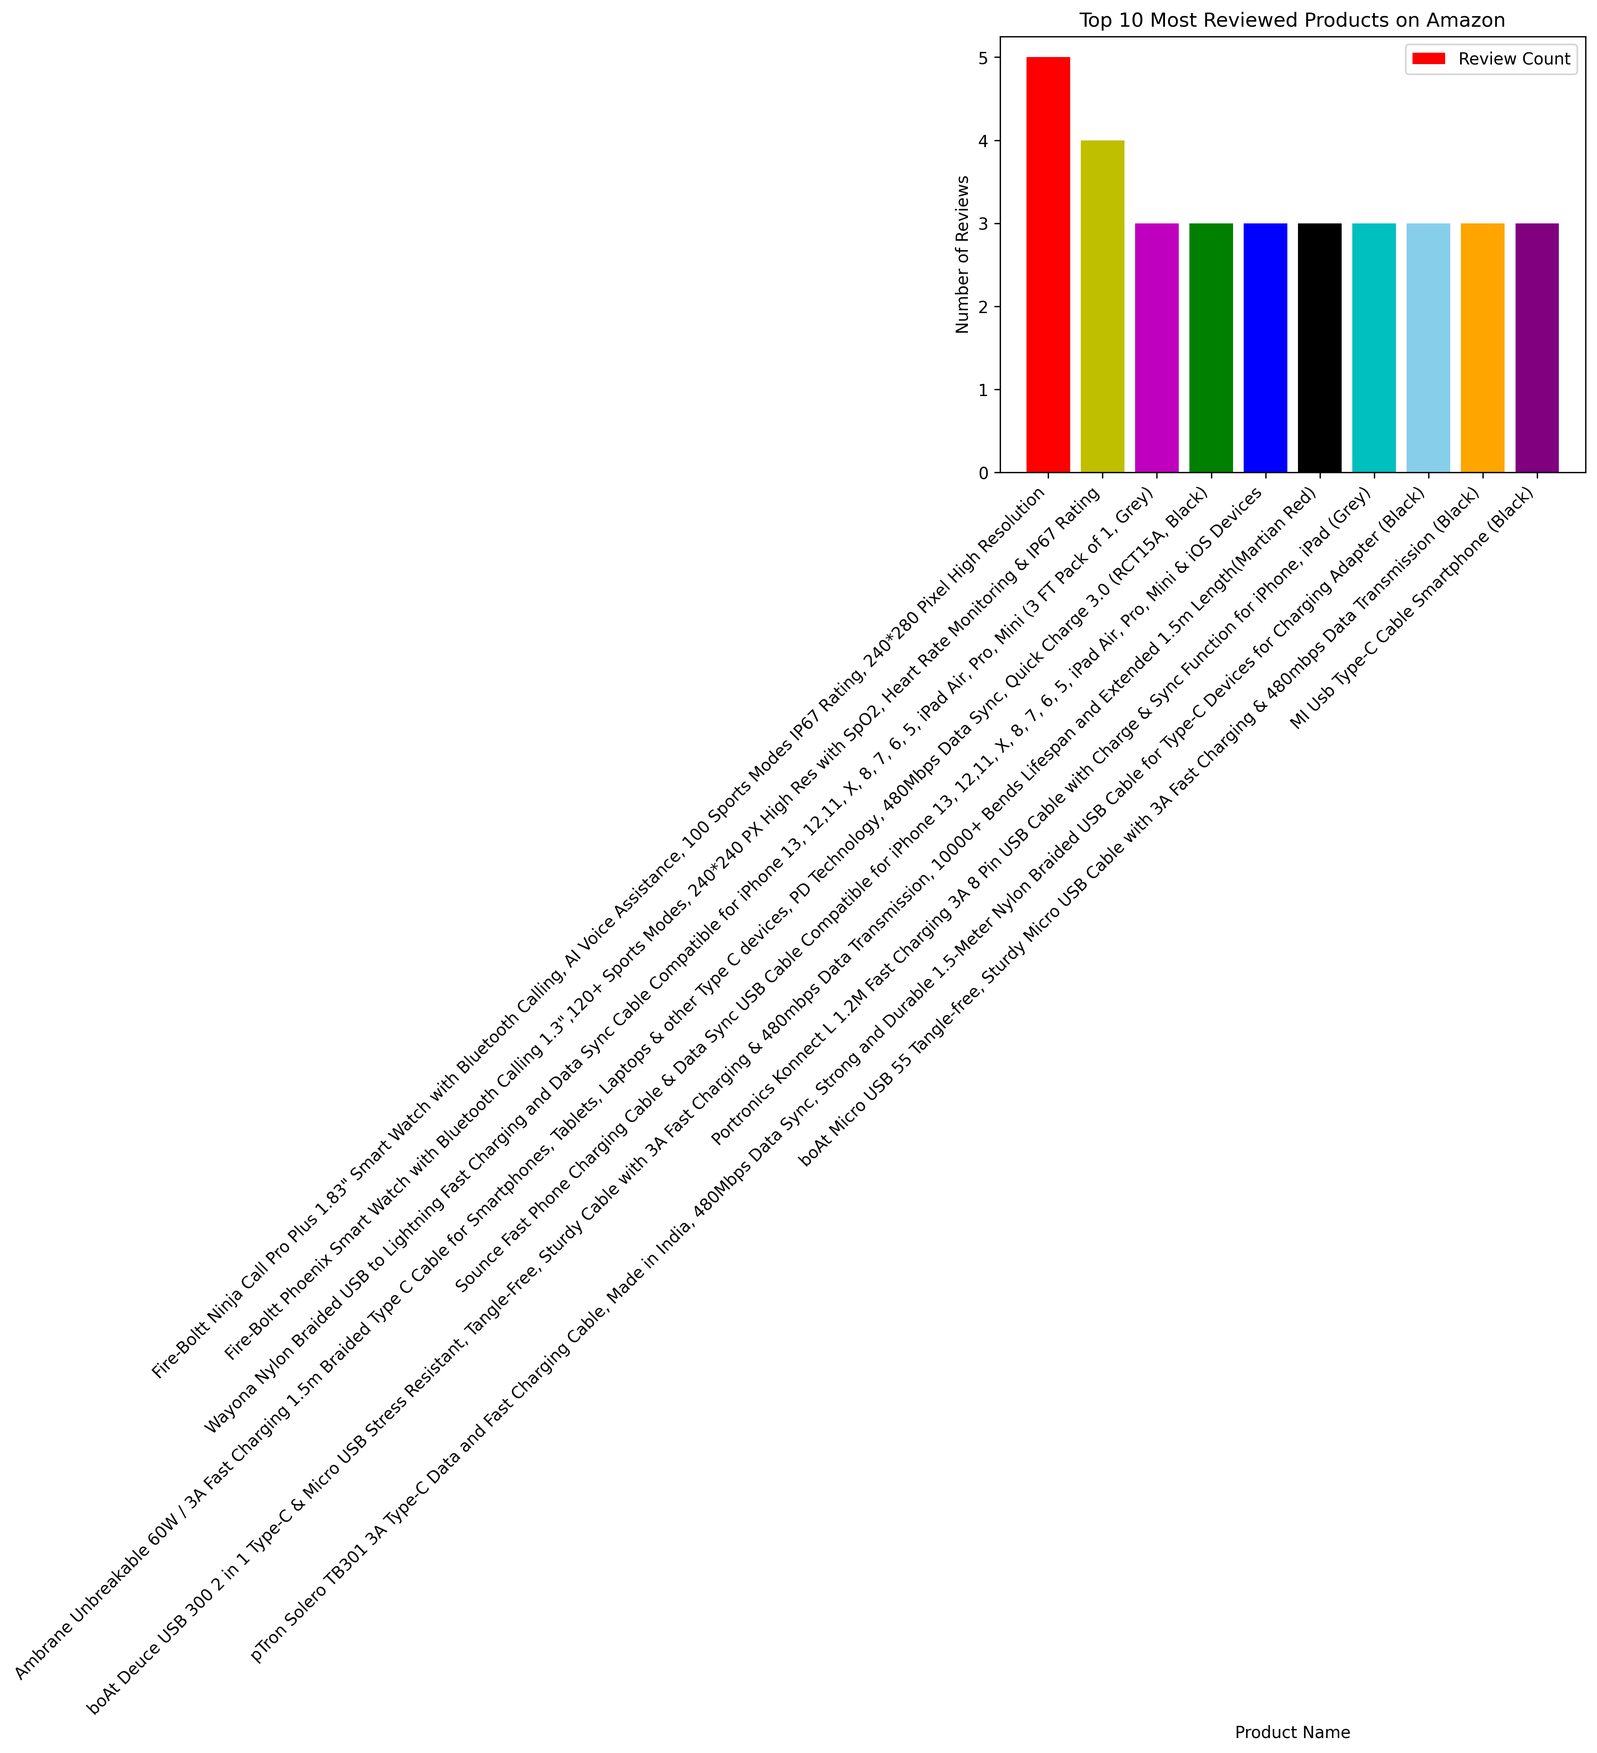
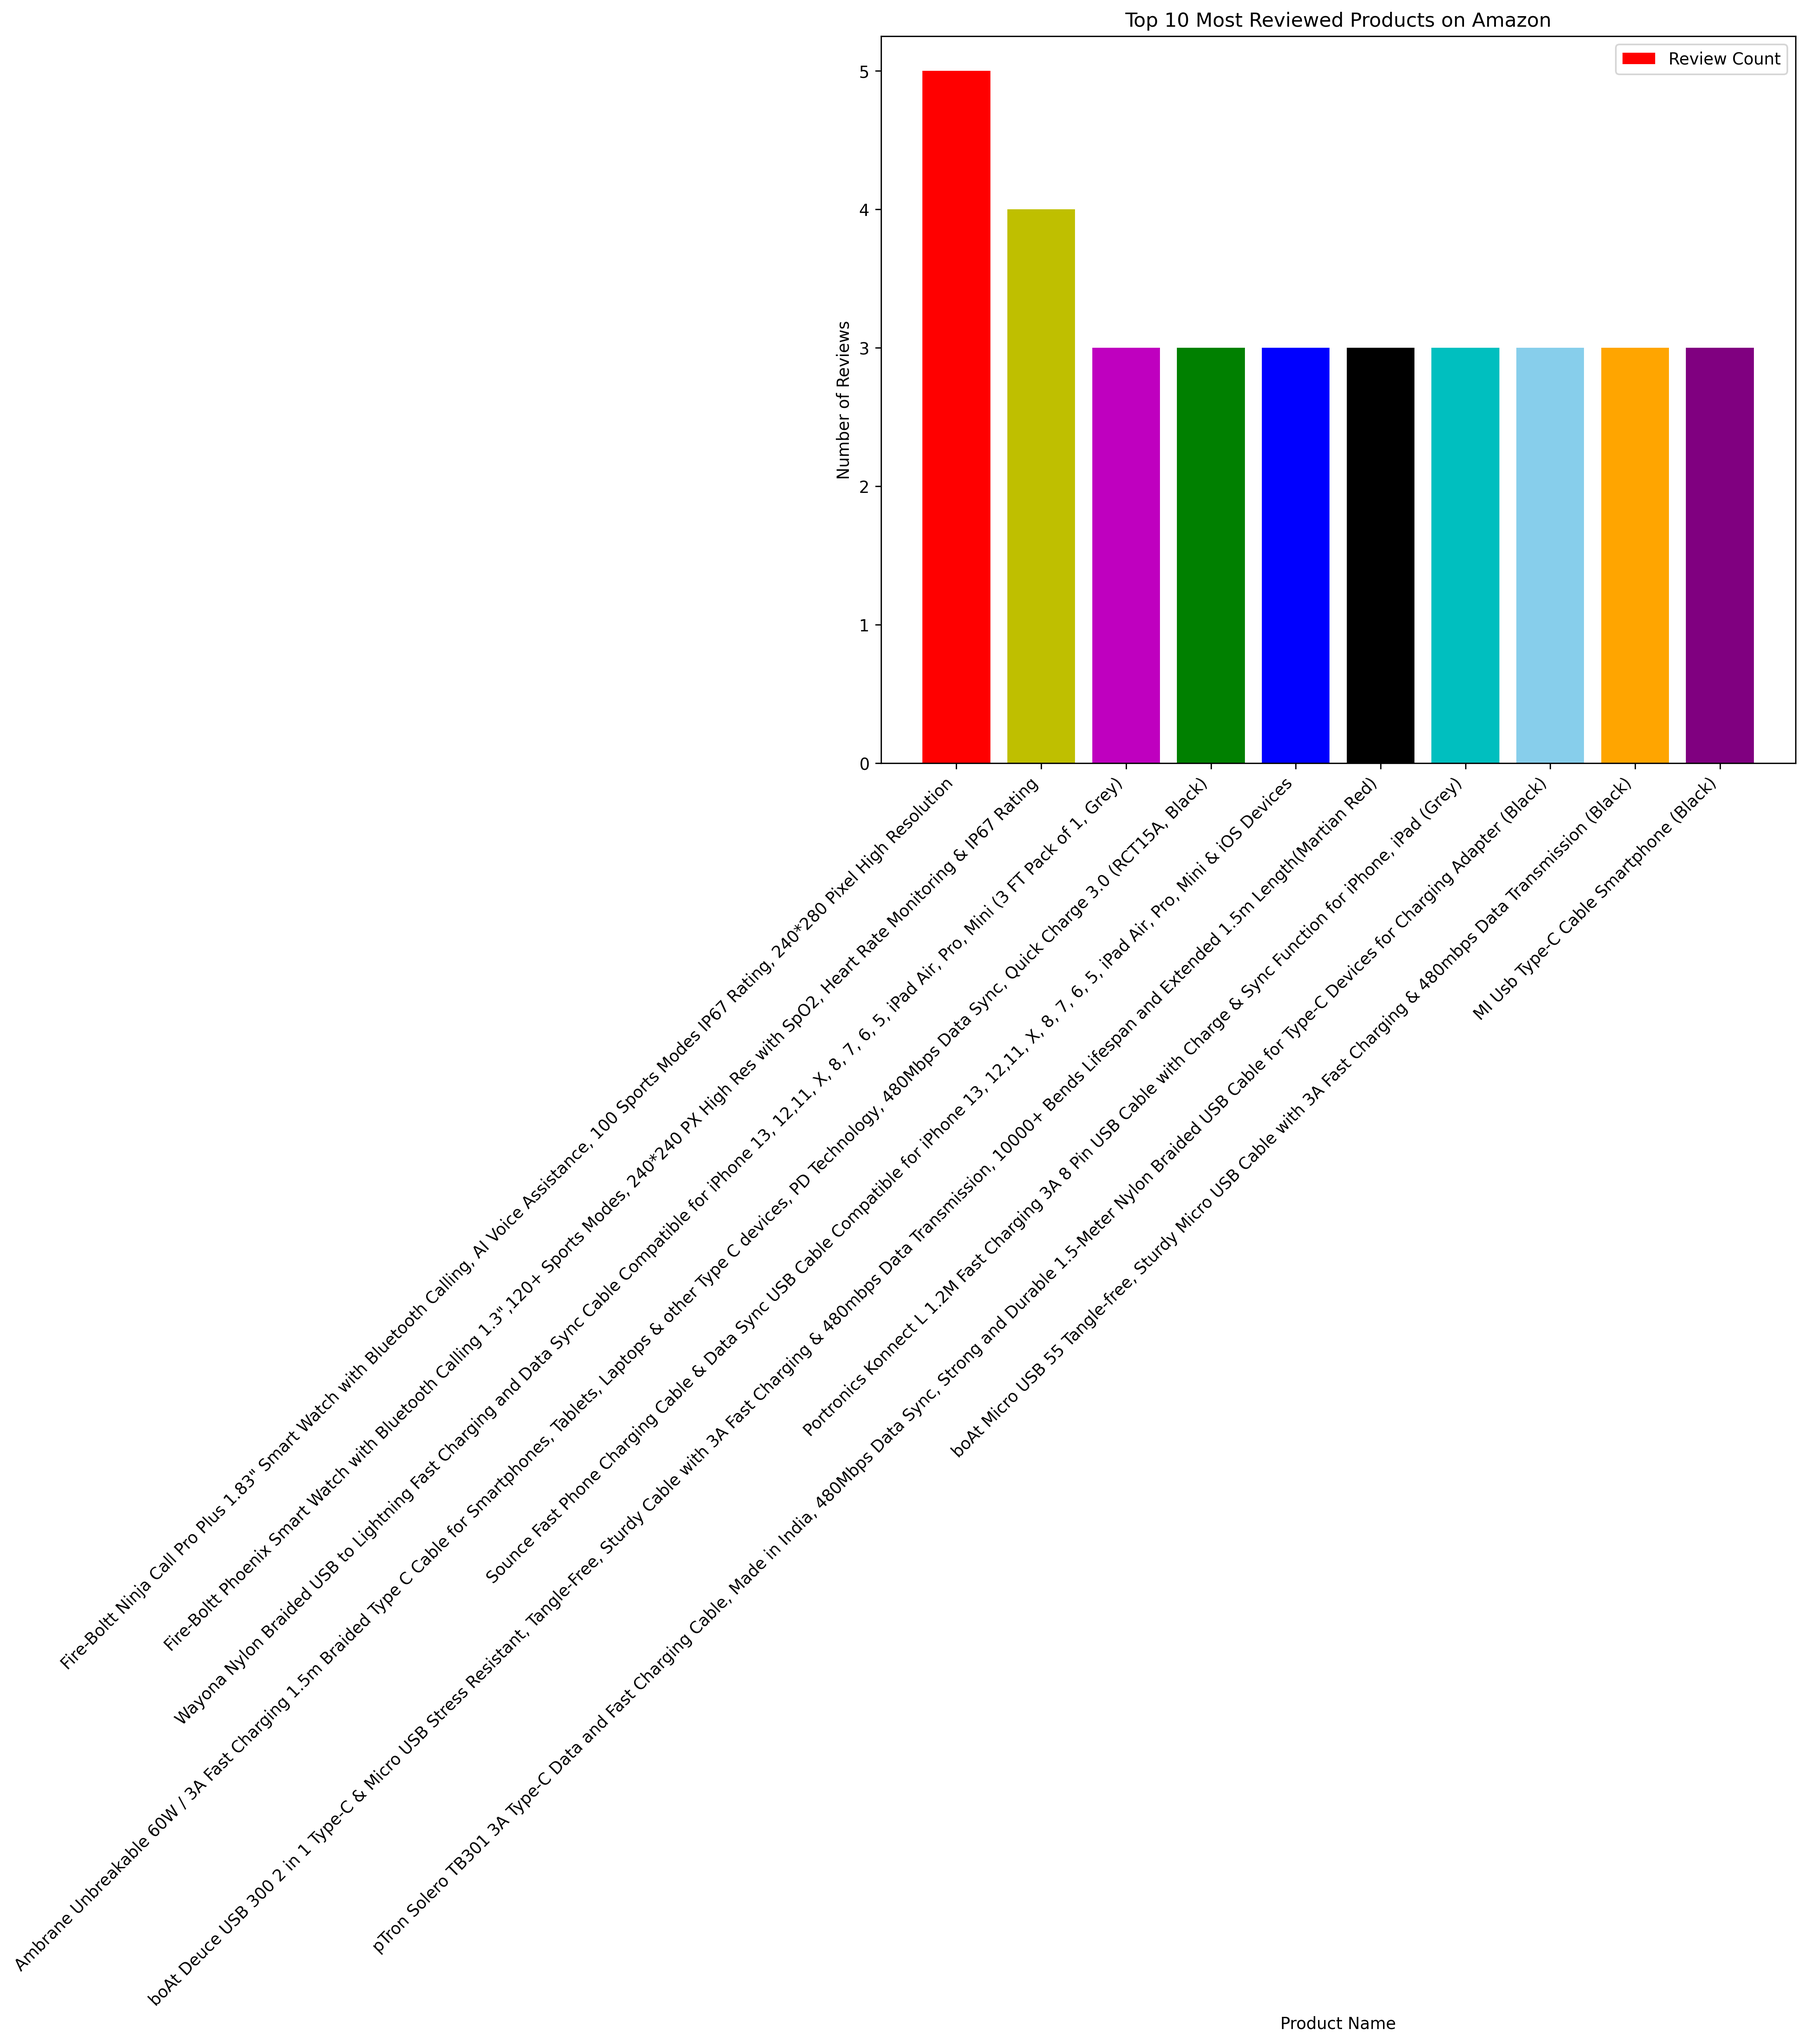
new figure parameters in code

diff --git a/code.py b/code.py
@@ -9,7 +9,7 @@ df = df.dropna(subset=['product_name', 'user_id', 'review_id'])
 # Top 10 most reviewed products
 most_sell = df['product_name'].value_counts().head(10)
 
-# plt.figure(figsize=(10, 8))
+plt.figure(figsize=(10, 8))
 
 colors = ['r','y','m','g','b','k','c','skyblue','orange','purple']
 
